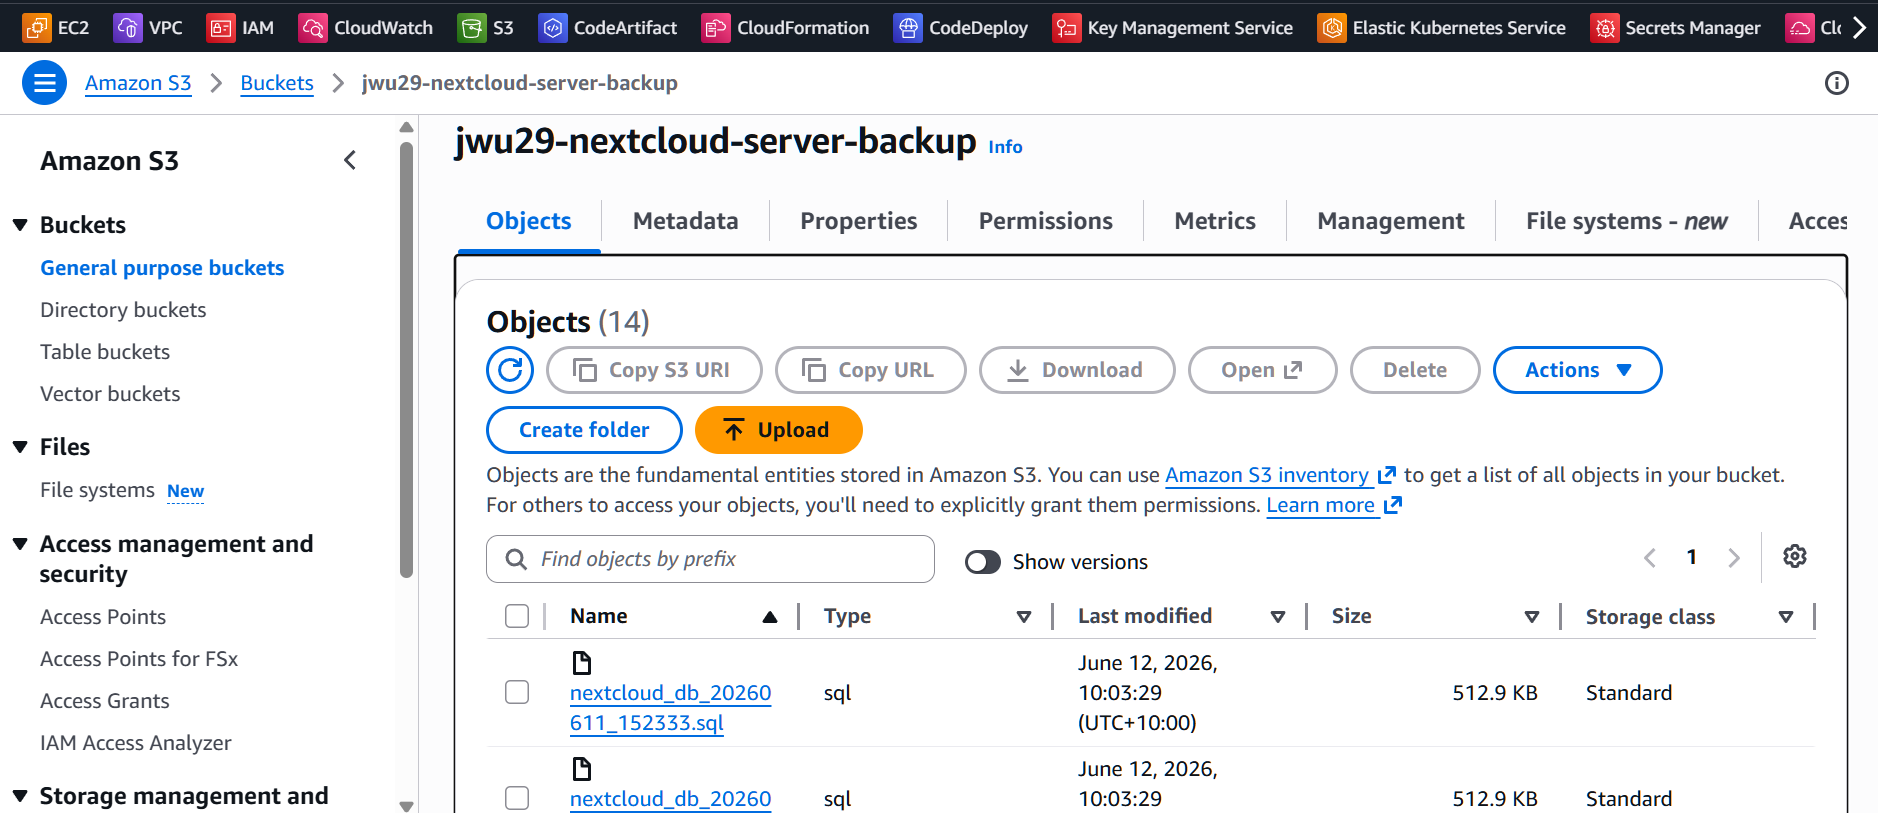
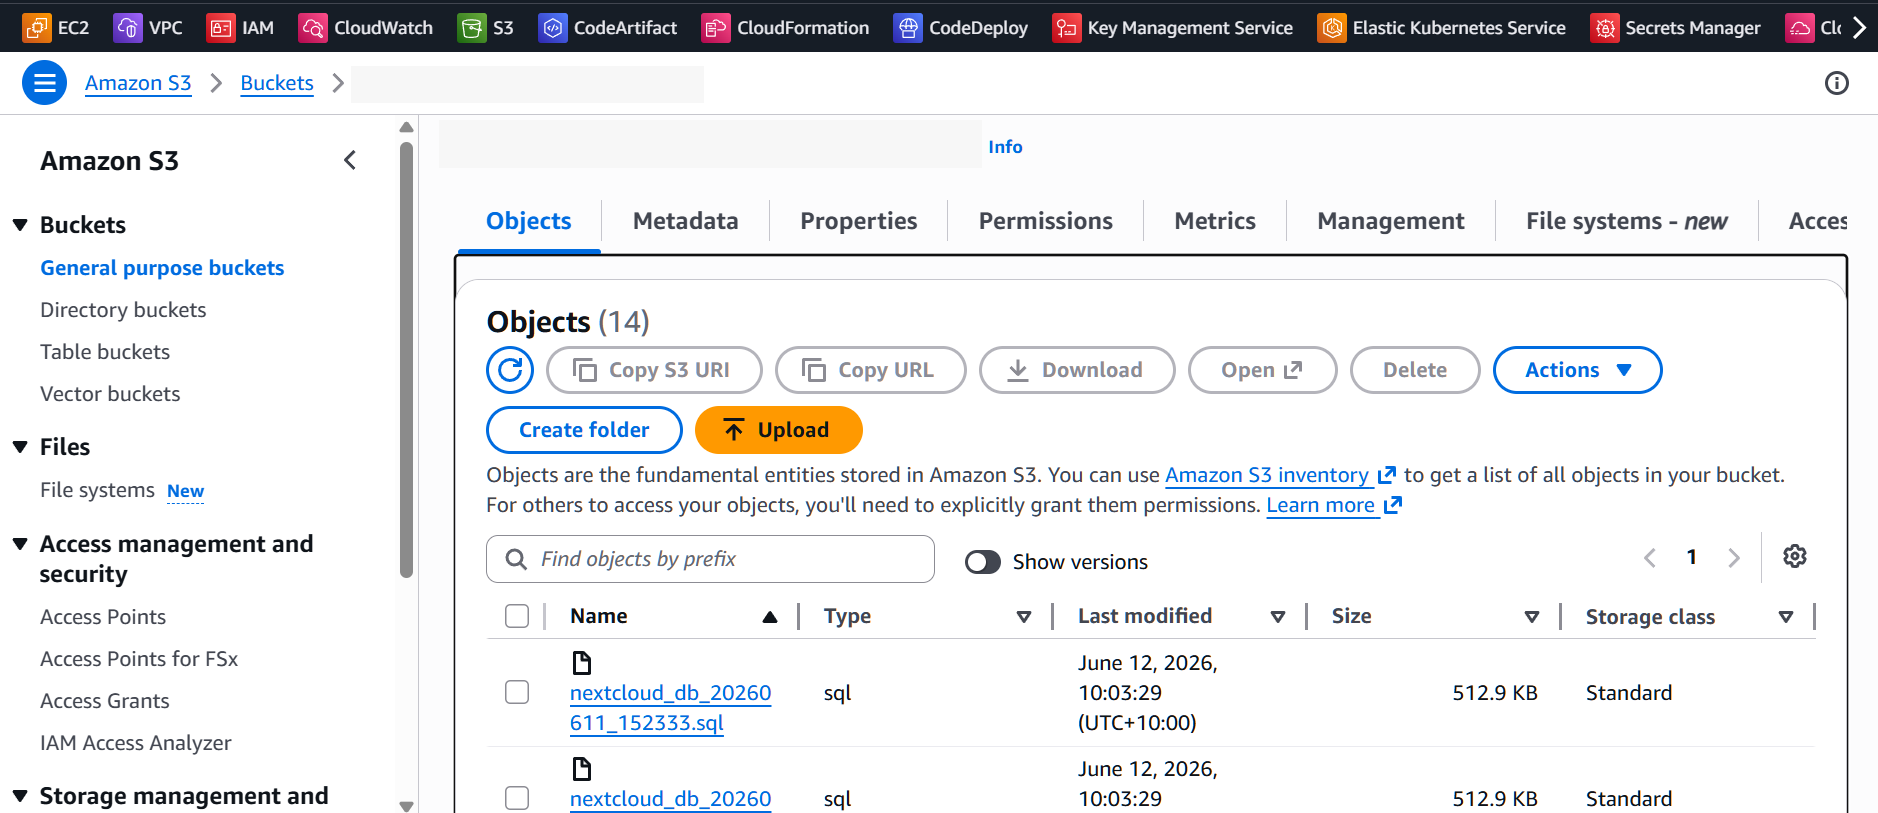
Small Changes in home-lab-part-5

Changed region(s): [[0.2162, 0.1538, 0.525, 0.2153], [0.1853, 0.0923, 0.3706, 0.123]]

diff --git a/src/data/markdown/home-lab-part5/content.md b/src/data/markdown/home-lab-part5/content.md
@@ -118,15 +118,15 @@ This schedules the backup script to run automatically at **02:20 AEST every nigh
 
 The following morning, the backup directory is inspected with `ls -lh /mnt/backup-ssd`, revealing a growing collection of timestamped backup files spanning both 11 June and 12 June. Entries timestamped around 02:20 AEST confirm that the cron job fired as scheduled and completed without any manual intervention. The on-premises backup is now fully automated.
 
-## Remote Backup: AWS
+## Remote Backup: AWS S3
 
 ![Update & aws configure](./images/Mac-134.png)
 
-Picking up from the AWS IAM credentials prepared in Part 4, we now configure the AWS CLI on the Nextcloud server. Running `sudo apt update` confirms all packages are current, and `sudo apt install awscli -y` confirms the AWS CLI is already installed at version `2.31.35-1`. We then run `aws configure` to supply the access key ID and secret access key for the `jwu29-nextcloud-server-user` IAM account created in Part 4, along with the default region and output format.
+Picking up from the AWS IAM credentials prepared in Part 4, we now configure the AWS CLI on the Nextcloud server. Running `sudo apt update` confirms all packages are current, and `sudo apt install awscli -y` confirms the AWS CLI is already installed at version `2.31.35-1`. We then run `aws configure` to supply the access key ID and secret access key for the IAM user created in Part 4, along with the default region and output format.
 
 ![Open S3 bucket](./images/Mac-137.png)
 
-With the CLI configured, we verify connectivity to the S3 bucket with `aws s3 ls s3://jwu29-nextcloud-server-backup`. The command returns no output, confirming that the bucket exists and is accessible but currently contains no objects — exactly as expected before the first upload.
+With the CLI configured, we verify connectivity to the S3 bucket with `aws s3 ls s3://<bucket-name>`. The command returns no output, confirming that the bucket exists and is accessible but currently contains no objects — exactly as expected before the first upload.
 
 ![Add S3 Backup commands](./images/Mac-138.png)
 
@@ -134,7 +134,7 @@ We update `nextcloud-backup.sh` to append an S3 sync step after the local SSD ba
 
 ```bash
 echo "Syncing backups to AWS S3..."
-aws s3 sync /mnt/backup-ssd s3://jwu29-nextcloud-server-backup --delete
+aws s3 sync /mnt/backup-ssd s3://<bucket-name> --delete
 echo "S3 sync completed successfully."
 ```
 
@@ -150,7 +150,7 @@ A final check confirms that 14 objects are now present in the bucket — seven `
 
 ![S3 Bucket (GUI)](./images/Windows-003.png)
 
-The same bucket contents are confirmed through the AWS S3 console. The `jwu29-nextcloud-server-backup` bucket is listed in the **Amazon S3** interface showing 14 objects with their upload timestamps of 12 June 2026. The console view serves as a final cross-check that the files are not only reachable via the CLI but are genuinely stored and accessible within the AWS S3 service.
+The same bucket contents are confirmed through the AWS S3 console. The bucket is listed in the **Amazon S3** interface showing 14 objects with their upload timestamps of 12 June 2026. The console view serves as a final cross-check that the files are not only reachable via the CLI but are genuinely stored and accessible within the AWS S3 service.
 
 ## Conclusion
 

diff --git a/src/data/markdown/home-lab-part4/content.md b/src/data/markdown/home-lab-part4/content.md
@@ -16,7 +16,7 @@ In this home lab project, I have built a private cloud hosted on a Docker LXC Co
 
 ![Tailscale Home Page](./images/Mac-073.png)
 
-Picking up from Part 3, we have a fully operational Nextcloud instance running at `http://192.168.0.141:8080` — but it is only reachable from within the local network. To access it securely from anywhere, we will use **Tailscale**, a zero-config VPN built on WireGuard. Navigating to the "Settings -> Keys" section of the Tailscale admin console at `login.tailscale.com`, we can see that no auth keys exist yet. Auth keys allow us to authenticate devices into our tailnet without requiring an interactive browser login — exactly what we need to enrol the Nextcloud container programmatically.
+Picking up from Part 3, we have a fully operational Nextcloud instance running — but it is only reachable from within the local network. To access it securely from anywhere, we will use **Tailscale**, a zero-config VPN built on WireGuard. Navigating to the "Settings -> Keys" section of the Tailscale admin console at `login.tailscale.com`, we can see that no auth keys exist yet. Auth keys allow us to authenticate devices into our tailnet without requiring an interactive browser login — exactly what we need to enrol the Nextcloud container programmatically.
 
 ![Tailscale Auth Key Creation](./images/Mac-074.png)
 
@@ -66,7 +66,7 @@ Logging in with the administrator credentials brings up the Nextcloud Dashboard.
 
 ![Tailscale Access Control JSON](./images/Windows-005-copy.png)
 
-With Nextcloud accessible over Tailscale, the next step is to enforce **access control** so that not every device on the tailnet can communicate freely with every other. In the Tailscale admin console under "Access controls", we edit the policy file in JSON mode to define two logical roles: `tag:server` (for the Nextcloud host) and `tag:host` (for personal client devices). The `tagOwners` block assigns ownership of both tags to `josiahwu29@gmail.com`.
+With Nextcloud accessible over Tailscale, the next step is to enforce **access control** so that not every device on the tailnet can communicate freely with every other. In the Tailscale admin console under "Access controls", we edit the policy file in JSON mode to define two logical roles: `tag:server` (for the Nextcloud host) and `tag:host` (for personal client devices).
 
 Two ACL rules are defined: the first allows any machine tagged `tag:host` to initiate connections to any port on machines tagged `tag:server`; the second allows the server to initiate connections back to the hosts. An SSH rule is also added, permitting `tag:host` machines to SSH into `tag:server` as `root` or a named user. This policy ensures that inter-device traffic between personal machines is blocked by default — only host-to-server and server-to-host communication is permitted.
 
